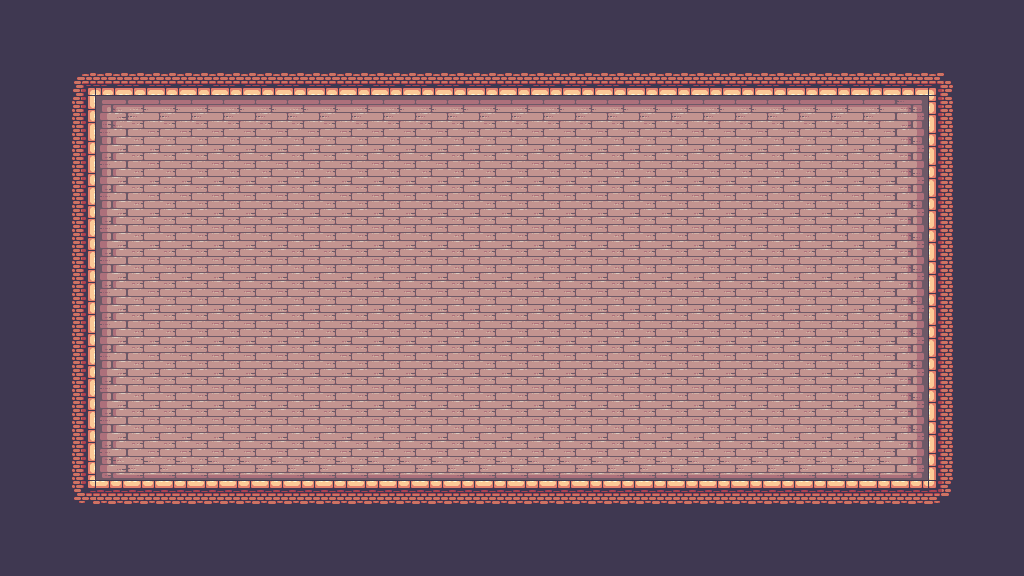
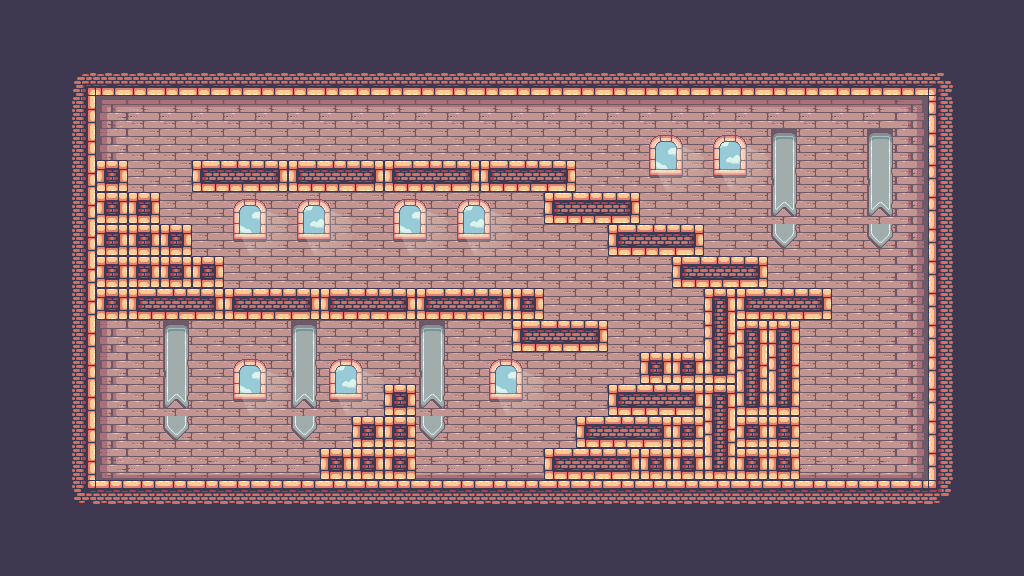
feat: Add base game-objects mechanics

diff --git a/src/data/levels/1/level_1.ts b/src/data/levels/1/level_1.ts
@@ -5,22 +5,129 @@ export const level_1_collision_blocks = [
 	60, 60, 60, 60, 60, 60, 60, 60, 60, 60, 60, 60, 60, 60, 60, 60, 60, 60, 28, 0,
 	0, 0, 0, 42, 0, 0, 0, 0, 0, 0, 0, 0, 0, 0, 0, 0, 0, 0, 0, 0, 0, 0, 0, 0, 0, 0,
 	0, 0, 0, 0, 40, 0, 0, 0, 0, 42, 0, 0, 0, 0, 0, 0, 0, 0, 0, 0, 0, 0, 0, 0, 0,
-	0, 0, 0, 0, 0, 0, 0, 0, 0, 0, 0, 40, 0, 0, 0, 0, 42, 0, 0, 0, 0, 0, 0, 0, 0,
-	0, 0, 0, 0, 0, 0, 0, 0, 0, 0, 0, 0, 0, 0, 0, 0, 0, 0, 40, 0, 0, 0, 0, 42, 0,
-	0, 0, 0, 0, 0, 0, 0, 0, 0, 0, 0, 0, 0, 0, 0, 0, 0, 0, 0, 0, 0, 0, 0, 0, 0, 40,
-	0, 0, 0, 0, 42, 0, 0, 0, 0, 0, 0, 0, 0, 0, 0, 0, 0, 0, 0, 0, 0, 0, 0, 0, 0, 0,
-	0, 0, 0, 0, 0, 40, 0, 0, 0, 0, 42, 0, 0, 0, 0, 0, 0, 0, 0, 0, 0, 0, 0, 0, 0,
-	0, 0, 0, 0, 0, 0, 0, 0, 0, 0, 0, 0, 40, 0, 0, 0, 0, 42, 0, 0, 0, 0, 0, 0, 0,
-	0, 0, 0, 0, 0, 0, 0, 0, 0, 0, 0, 0, 0, 0, 0, 0, 0, 0, 0, 40, 0, 0, 0, 0, 42,
+	0, 0, 0, 0, 0, 0, 0, 0, 0, 0, 0, 40, 0, 0, 0, 0, 42, 361, 0, 0, 357, 358, 359,
+	357, 358, 359, 357, 358, 359, 357, 358, 359, 0, 0, 0, 0, 0, 0, 0, 0, 0, 0, 0,
+	40, 0, 0, 0, 0, 42, 361, 361, 0, 0, 0, 0, 0, 0, 0, 0, 0, 0, 0, 0, 357, 358,
+	359, 0, 0, 0, 0, 0, 0, 0, 0, 0, 40, 0, 0, 0, 0, 42, 361, 361, 361, 0, 0, 0, 0,
+	0, 0, 0, 0, 0, 0, 0, 0, 0, 357, 358, 359, 0, 0, 0, 0, 0, 0, 0, 40, 0, 0, 0, 0,
+	42, 361, 361, 361, 361, 0, 0, 0, 0, 0, 0, 0, 0, 0, 0, 0, 0, 0, 0, 357, 358,
+	359, 0, 0, 0, 0, 0, 40, 0, 0, 0, 0, 42, 361, 357, 358, 359, 357, 358, 359,
+	357, 358, 359, 357, 358, 359, 361, 0, 0, 0, 0, 0, 285, 357, 358, 359, 0, 0, 0,
+	40, 0, 0, 0, 0, 42, 0, 0, 0, 0, 0, 0, 0, 0, 0, 0, 0, 0, 0, 357, 358, 359, 0,
+	0, 0, 304, 285, 285, 0, 0, 0, 0, 40, 0, 0, 0, 0, 42, 0, 0, 0, 0, 0, 0, 0, 0,
+	0, 0, 0, 0, 0, 0, 0, 0, 0, 361, 361, 323, 304, 304, 0, 0, 0, 0, 40, 0, 0, 0,
+	0, 42, 0, 0, 0, 0, 0, 0, 0, 0, 0, 361, 0, 0, 0, 0, 0, 0, 357, 358, 359, 285,
+	323, 323, 0, 0, 0, 0, 40, 0, 0, 0, 0, 42, 0, 0, 0, 0, 0, 0, 0, 0, 361, 361, 0,
+	0, 0, 0, 0, 357, 358, 359, 361, 304, 361, 361, 0, 0, 0, 0, 40, 0, 0, 0, 0, 42,
+	0, 0, 0, 0, 0, 0, 0, 361, 361, 361, 0, 0, 0, 0, 357, 358, 359, 361, 361, 323,
+	361, 361, 0, 0, 0, 0, 40, 0, 0, 0, 0, 46, 22, 22, 22, 22, 22, 22, 22, 22, 22,
+	22, 22, 22, 22, 22, 22, 22, 22, 22, 22, 22, 22, 22, 22, 22, 22, 22, 47, 0, 0,
 	0, 0, 0, 0, 0, 0, 0, 0, 0, 0, 0, 0, 0, 0, 0, 0, 0, 0, 0, 0, 0, 0, 0, 0, 0, 0,
-	40, 0, 0, 0, 0, 42, 0, 0, 0, 0, 0, 0, 0, 0, 0, 0, 0, 0, 0, 0, 0, 0, 0, 0, 0,
-	0, 0, 0, 0, 0, 0, 0, 40, 0, 0, 0, 0, 42, 0, 0, 0, 0, 0, 0, 0, 0, 0, 0, 0, 0,
-	0, 0, 0, 0, 0, 0, 0, 0, 0, 0, 0, 0, 0, 0, 40, 0, 0, 0, 0, 42, 0, 0, 0, 0, 0,
-	0, 0, 0, 0, 0, 0, 0, 0, 0, 0, 0, 0, 0, 0, 0, 0, 0, 0, 0, 0, 0, 40, 0, 0, 0, 0,
-	42, 0, 0, 0, 0, 0, 0, 0, 0, 0, 0, 0, 0, 0, 0, 0, 0, 0, 0, 0, 0, 0, 0, 0, 0, 0,
-	0, 40, 0, 0, 0, 0, 46, 22, 22, 22, 22, 22, 22, 22, 22, 22, 22, 22, 22, 22, 22,
-	22, 22, 22, 22, 22, 22, 22, 22, 22, 22, 22, 22, 47, 0, 0, 0, 0, 0, 0, 0, 0, 0,
 	0, 0, 0, 0, 0, 0, 0, 0, 0, 0, 0, 0, 0, 0, 0, 0, 0, 0, 0, 0, 0, 0, 0, 0, 0, 0,
-	0, 0, 0, 0, 0, 0, 0, 0, 0, 0, 0, 0, 0, 0, 0, 0, 0, 0, 0, 0, 0, 0, 0, 0, 0, 0,
-	0, 0, 0, 0, 0,
+	0, 0, 0, 0, 0, 0, 0, 0, 0, 0, 0, 0,
+];
+
+export const level_1_objects_data = [
+	{
+		type: "box",
+		height: 16,
+		x: 95,
+		y: 481,
+	},
+	{
+		type: "box",
+		height: 16,
+		x: 116.5,
+		y: 481.5,
+	},
+	{
+		type: "box",
+		height: 16,
+		x: 107,
+		y: 466.5,
+	},
+	{
+		type: "box",
+		height: 16,
+		x: 137.5,
+		y: 480.5,
+	},
+	{
+		type: "box",
+		height: 16,
+		x: 130.5,
+		y: 465.5,
+	},
+	{
+		type: "box",
+		height: 16,
+		x: 118,
+		y: 450.5,
+	},
+	{
+		type: "box",
+		height: 16,
+		x: 522.666666666667,
+		y: 480.666666666667,
+	},
+	{
+		type: "box",
+		height: 16,
+		x: 501.666666666667,
+		y: 481,
+	},
+	{
+		type: "box",
+		height: 16,
+		x: 684,
+		y: 352.25,
+	},
+	{
+		type: "box",
+		height: 16,
+		x: 662.75,
+		y: 352.5,
+	},
+	{
+		type: "box",
+		height: 16,
+		x: 674.5,
+		y: 336.75,
+	},
+	{
+		type: "box",
+		height: 16,
+		x: 799.666666666667,
+		y: 481,
+	},
+	{
+		type: "box",
+		height: 16,
+		x: 821.333333333333,
+		y: 481.333333333333,
+	},
+	{
+		type: "box",
+		height: 16,
+		x: 803,
+		y: 465,
+	},
+	{
+		type: "box",
+		height: 16,
+		x: 825.333333333333,
+		y: 464.333333333333,
+	},
+	{
+		type: "box",
+		height: 16,
+		x: 815.666666666667,
+		y: 448.333333333333,
+	},
+	{
+		type: "box",
+		height: 16,
+		x: 842.666666666667,
+		y: 481,
+	},
 ];

diff --git a/src/classes/Level.ts b/src/classes/Level.ts
@@ -3,12 +3,15 @@ import Block from "../primitives/Block";
 import { parse2D } from "../config/utils";
 import { game_variables } from "../config/settings";
 import { levels } from "../config/levels";
+import Box from "../objects/Box";
+import GameObject from "../primitives/GameObject";
 
 export default class Level {
 	level_number: number;
 	background: HTMLImageElement;
 	collision_blocks_data2D: any;
 	collision_blocks: Block[];
+	objects: GameObject[];
 	player: Player;
 	backgroundLoaded: Promise<void>;
 
@@ -29,6 +32,7 @@ export default class Level {
 			levels[level_number].collision_blocks
 		);
 		this.collision_blocks = [];
+		this.objects = [];
 
 		this.player = new Player();
 
@@ -55,6 +59,13 @@ export default class Level {
 			});
 		}
 
+		// Generate game objects
+		levels[this.level_number].objects_data.forEach(obj => {
+			if (obj.type == 'box') {
+				this.objects.push(new Box({position: {x: obj.x, y: (obj.y - obj.height)}}));
+			}
+		})		
+
 		// Player init
 		this.player.position = levels[this.level_number].player_position;
 		this.player.collision_blocks = this.collision_blocks;
@@ -67,6 +78,8 @@ export default class Level {
 		context.save();
 		context.scale(this.player.camera.scale, this.player.camera.scale);
 		context.translate(-this.player.camera.position.x, -this.player.camera.position.y);
+
+		// Render background
 		context.drawImage(
 			this.background,
 			0,
@@ -79,6 +92,10 @@ export default class Level {
 			game_variables.GAME_HEIGHT
 		);
 
+		// Render objects
+		this.objects.forEach(obj => obj.render(context));
+
+		// Render player
 		this.player.render(context);
 		context.restore();
 	}

diff --git a/src/classes/Camera.ts b/src/classes/Camera.ts
@@ -29,21 +29,6 @@ export default class Camera {
             this.position.x += offset; 
         }
 
-        if (this.player.position.y + this.player.height > this.position.y + this.height) {
-            let offset = (this.player.position.y + this.player.height) - (this.position.y + this.height);
-            this.position.y += offset + 500;
-        }
-
-        if (this.player.position.y < this.position.y) {
-            let offset = this.player.position.y - this.position.y;
-            this.position.y += offset;
-        }
-
-        
-    }
-
-    render(context: CanvasRenderingContext2D) {
-        context.fillStyle = 'rgba(0, 0, 255, 0.5)';
-        context.fillRect(this.position.x, this.position.y, this.width, this.height);
+        this.position.y = this.player.position.y - (0.5 * this.player.height) - (0.5 * this.height);
     }
 }

diff --git a/src/config/levels.ts b/src/config/levels.ts
@@ -1,7 +1,8 @@
-import { level_1_collision_blocks } from "../data/levels/1/level_1";
+import { level_1_collision_blocks, level_1_objects_data } from "../data/levels/1/level_1";
 
 interface LevelData {
 	collision_blocks: number[];
+	objects_data: {type: string, x: number, y: number, height: number}[];
 	player_position: { x: number; y: number };
 }
 
@@ -12,7 +13,8 @@ interface Levels {
 export const levels: Levels = {
 	1: {
 		collision_blocks: level_1_collision_blocks,
-		player_position: { x: 100, y: 200 },
+		objects_data: level_1_objects_data,
+		player_position: { x: 200, y: 400 },
 	},
 	// Will create other levels
 };

diff --git a/src/primitives/GameObject.ts b/src/primitives/GameObject.ts
@@ -1,0 +1,21 @@
+export default class GameObject {
+    position: {x: number, y: number}
+    image_src: string;
+    obj_image: HTMLImageElement;
+
+    constructor({position = {x: 0, y: 0}, image_src = ''} = {}) {
+        this.position = position;
+        
+        this.image_src = image_src;
+		this.obj_image = new Image();
+		this.obj_image.src = this.image_src;
+    }
+
+    draw(context: CanvasRenderingContext2D) {
+        context.drawImage(this.obj_image, this.position.x, this.position.y);
+    }
+
+    render(context: CanvasRenderingContext2D) {
+        this.draw(context);
+    }
+}

diff --git a/src/objects/Box.ts b/src/objects/Box.ts
@@ -1,0 +1,18 @@
+import GameObject from "../primitives/GameObject";
+
+export default class Box extends GameObject {
+    position: { x: number; y: number; };
+
+    constructor({position = {x: 0, y: 0}} = {}) {
+        super({position, image_src: 'assets/spritesheets/box/Idle.png'});
+        this.position = position;
+    }
+
+    /* draw(context: CanvasRenderingContext2D) {
+        context.drawImage(this.obj_image, this.position.x, this.position.y);
+    }
+
+    render (context: CanvasRenderingContext2D) {
+        this.draw(context);
+    } */
+}

diff --git a/src/classes/Player.ts b/src/classes/Player.ts
@@ -30,7 +30,7 @@ export default class Player {
 		this.width = 78;
 		this.height = 58;
 		this.velocity = { x: 0, y: 0 };
-		this.speed = 2;
+		this.speed = 4;
 		this.attacking = false;
 		this.jumping = false;
 		this.falling = false;

diff --git a/src/main.ts b/src/main.ts
@@ -11,7 +11,6 @@ document.addEventListener("DOMContentLoaded", () => {
 
 
 	const game = new Game();
-	
 
 	const animate = () => {
 		ctx.fillStyle = 'black';
